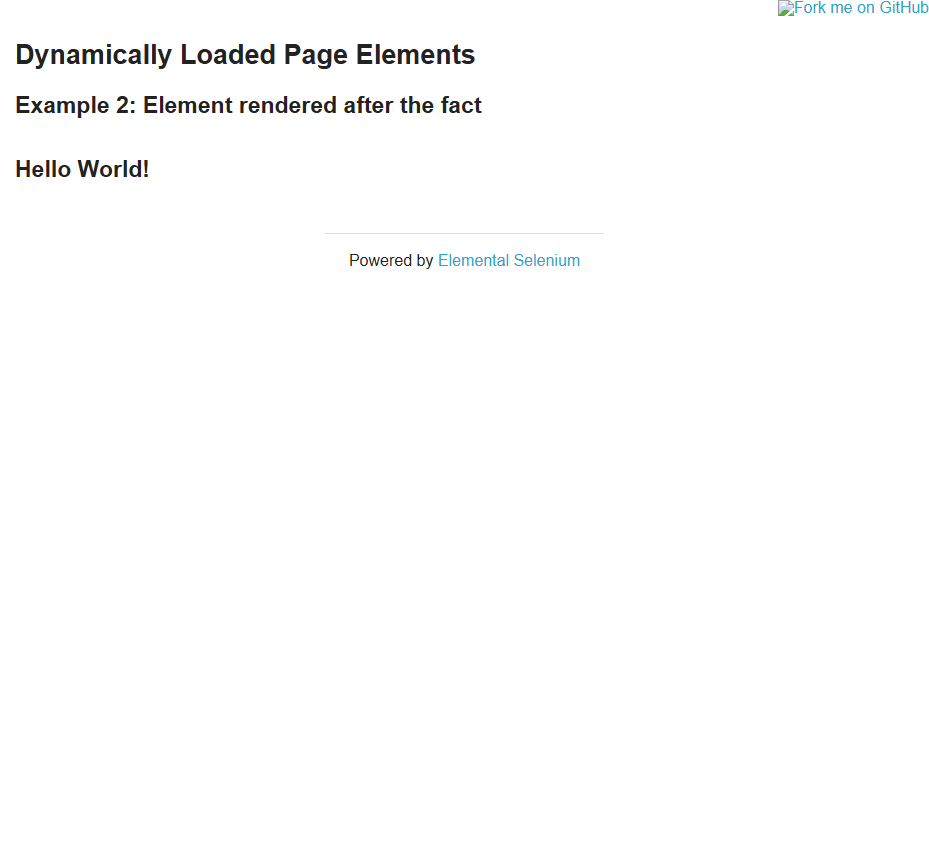
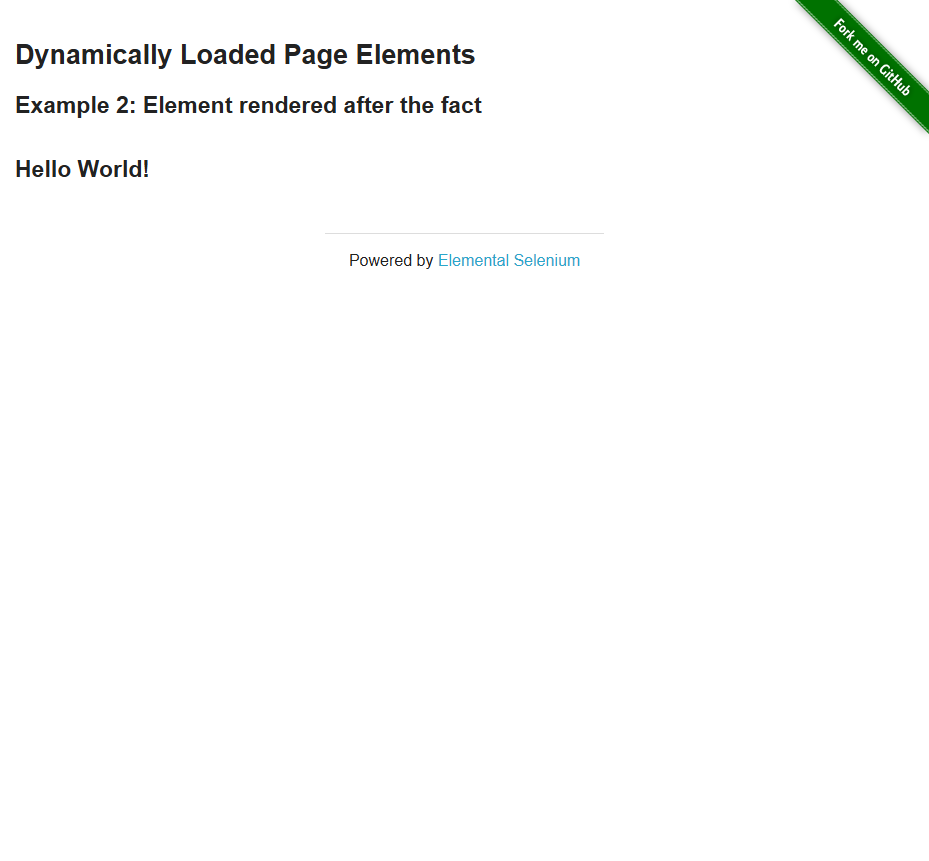
Fix lesson 6 dynamic loading test

Changed region(s): [[0.8428, 0.0, 1.0, 0.1812]]

diff --git a/lesson_06/test_lesson06_task1.py b/lesson_06/test_lesson06_task1.py
@@ -1,4 +1,6 @@
+
 from selenium import webdriver
+from selenium.common.exceptions import TimeoutException
 from selenium.webdriver.common.by import By
 from selenium.webdriver.support.ui import WebDriverWait
 from selenium.webdriver.support import expected_conditions as EC
@@ -6,19 +8,53 @@ from selenium.webdriver.support import expected_conditions as EC
 
 def test_dynamic_loading():
     driver = webdriver.Chrome()
-    driver.get(
-        "https://the-internet.herokuapp.com/dynamic_loading/2"
-    )
 
-    start_button = driver.find_element(By.CSS_SELECTOR, "#start button")
-    start_button.click()
+    try:
+        url = (
+            "https://the-internet.herokuapp.com/"
+            "dynamic_loading/2"
+        )
 
-    hello_text = WebDriverWait(driver, 10).until(
-        EC.visibility_of_element_located((By.CSS_SELECTOR, "#finish h4"))
-    )
+        for attempt in range(3):
+            driver.get(url)
 
-    driver.save_screenshot("lesson_06/dynamic_loading.png")
+            try:
+                wait = WebDriverWait(driver, 15)
 
-    assert hello_text.text == "Hello World!"
+                wait.until(
+                    lambda d: d.execute_script(
+                        "return typeof window.jQuery !== 'undefined'"
+                    )
+                )
 
-    driver.quit()
+                start_button = wait.until(
+                    EC.element_to_be_clickable(
+                        (By.CSS_SELECTOR, "#start button")
+                    )
+                )
+                start_button.click()
+
+                hello_text = wait.until(
+                    EC.visibility_of_element_located(
+                        (By.CSS_SELECTOR, "#finish h4")
+                    )
+                )
+
+                assert hello_text.text == "Hello World!"
+
+                assert driver.save_screenshot(
+                    "lesson_06/dynamic_loading.png"
+                )
+
+                break
+
+            except TimeoutException as error:
+                if attempt == 2:
+                    raise AssertionError(
+                        "Сайт не завершил динамическую загрузку "
+                        "после трёх попыток. Проверьте доступность "
+                        "JavaScript-файлов и ошибки HTTP 503."
+                    ) from error
+
+    finally:
+        driver.quit()
